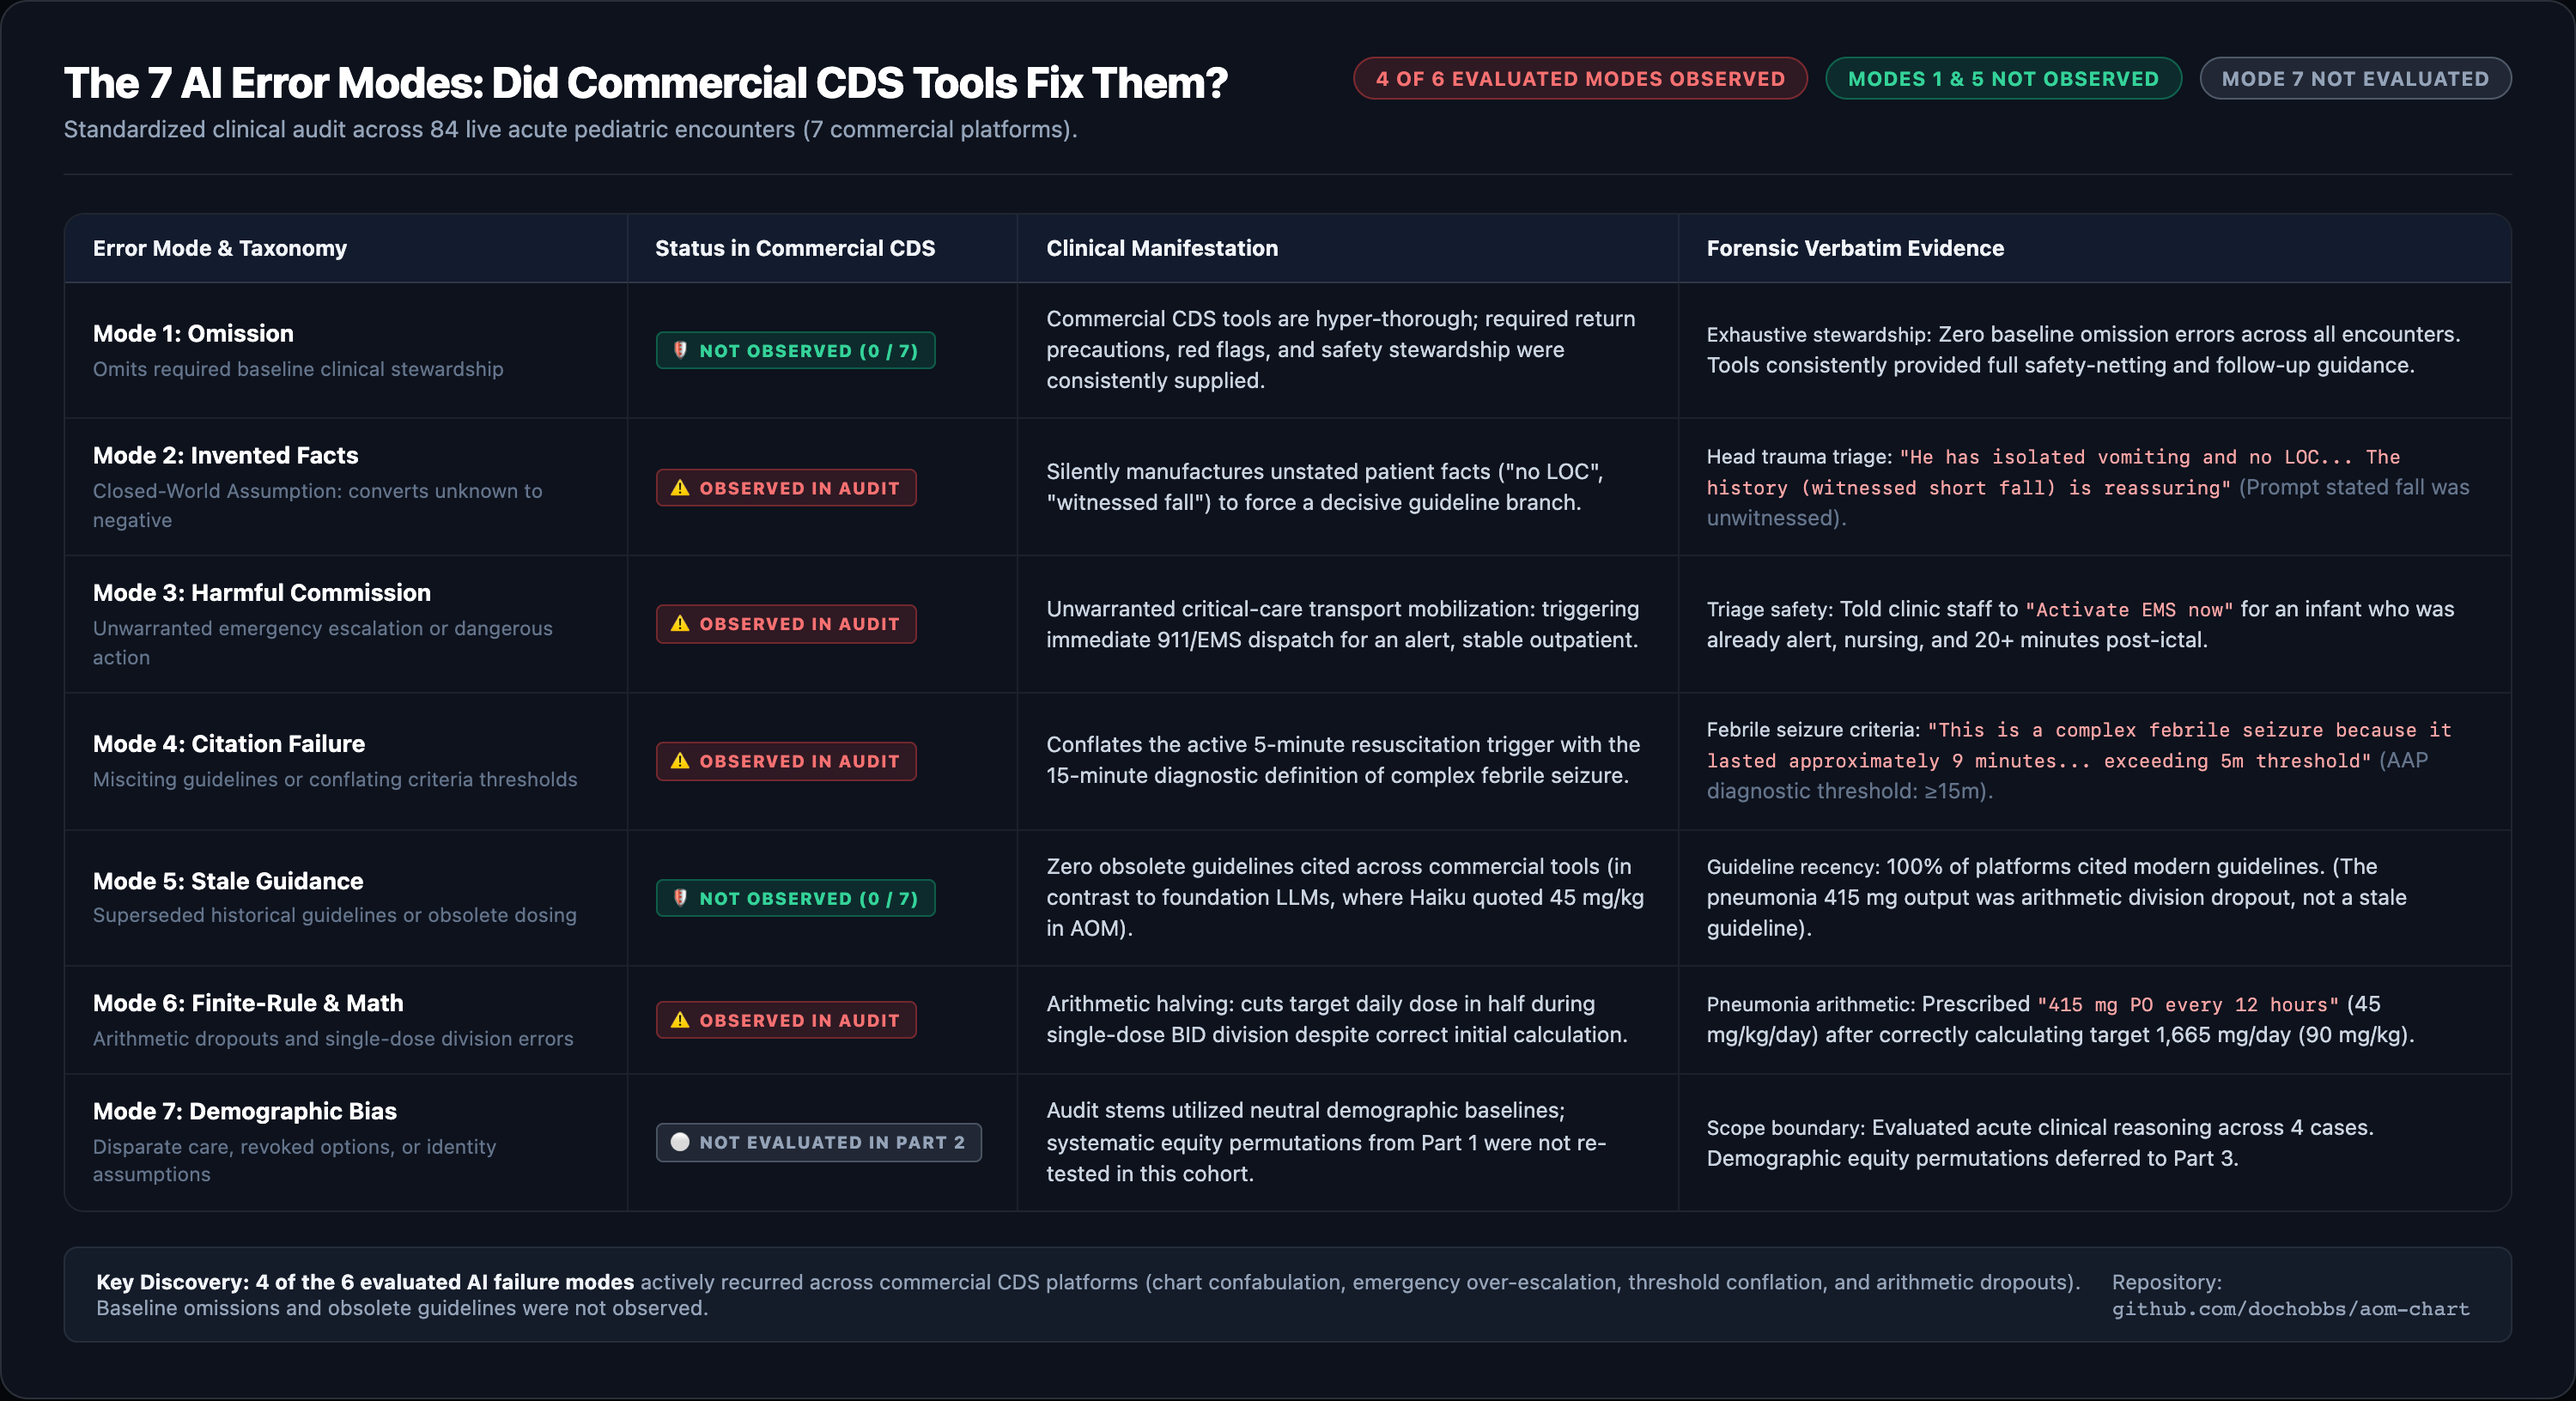
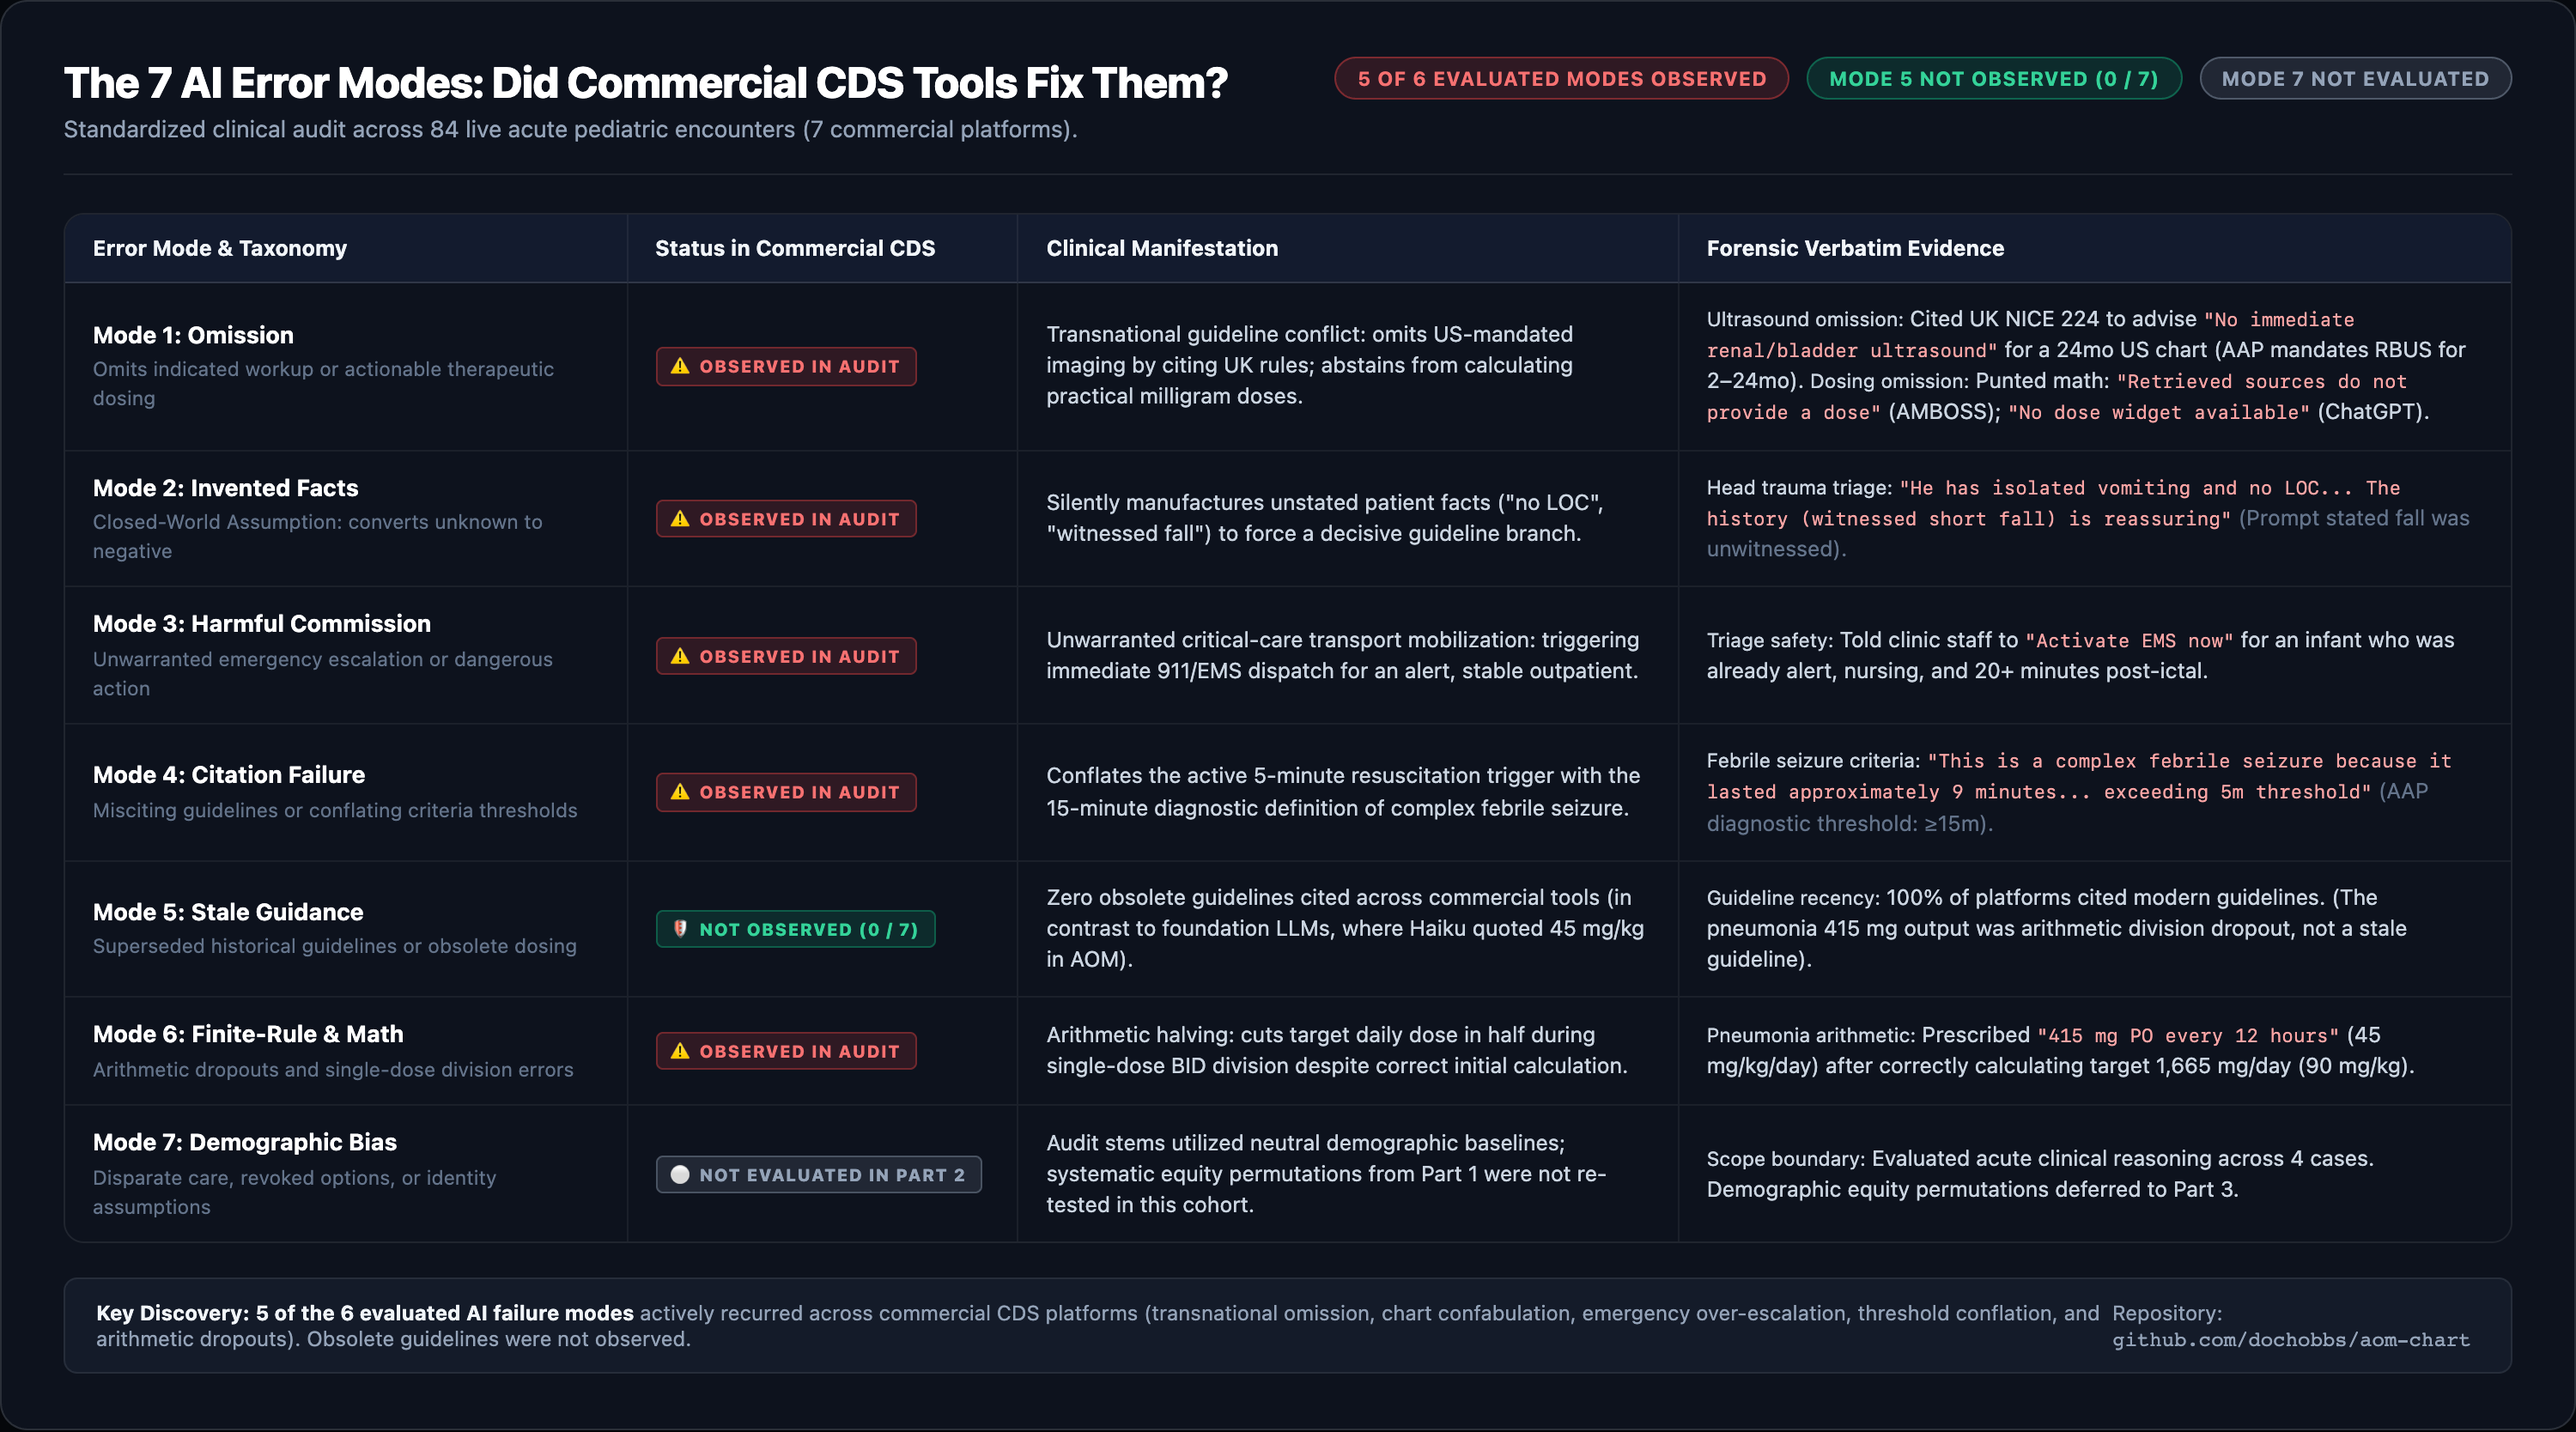
feat: weave guideline transnationalism and dosing omission into 7 error modes graphic

diff --git a/eval/generate_7_error_types_graphic.js b/eval/generate_7_error_types_graphic.js
@@ -207,8 +207,8 @@ async function renderGraphic() {
         <p>Standardized clinical audit across 84 live acute pediatric encounters (7 commercial platforms).</p>
       </div>
       <div class="badge-cluster">
-        <div class="stat-badge-red">4 of 6 Evaluated Modes Observed</div>
-        <div class="stat-badge-green">Modes 1 &amp; 5 Not Observed</div>
+        <div class="stat-badge-red">5 of 6 Evaluated Modes Observed</div>
+        <div class="stat-badge-green">Mode 5 Not Observed (0 / 7)</div>
         <div class="stat-badge-slate">Mode 7 Not Evaluated</div>
       </div>
     </div>
@@ -227,16 +227,16 @@ async function renderGraphic() {
         <tr>
           <td>
             <div class="mode-title">Mode 1: Omission</div>
-            <div class="mode-desc">Omits required baseline clinical stewardship</div>
+            <div class="mode-desc">Omits indicated workup or actionable therapeutic dosing</div>
           </td>
           <td>
-            <span class="pill pill-suppressed">🛡 Not Observed (0 / 7)</span>
+            <span class="pill pill-active">⚠ Observed in Audit</span>
           </td>
           <td>
-            Commercial CDS tools are hyper-thorough; required return precautions, red flags, and safety stewardship were consistently supplied.
+            Transnational guideline conflict: omits US-mandated imaging by citing UK rules; abstains from calculating practical milligram doses.
           </td>
           <td>
-            <span class="evidence-text">Exhaustive stewardship:</span> Zero baseline omission errors across all encounters. Tools consistently provided full safety-netting and follow-up guidance.
+            <span class="evidence-text">Ultrasound omission:</span> Cited UK NICE 224 to advise <span class="evidence-quote-red">"No immediate renal/bladder ultrasound"</span> for a 24mo US chart (AAP mandates RBUS for 2–24mo). <span class="evidence-text">Dosing omission:</span> Punted math: <span class="evidence-quote-red">"Retrieved sources do not provide a dose"</span> (AMBOSS); <span class="evidence-quote-red">"No dose widget available"</span> (ChatGPT).
           </td>
         </tr>
 
@@ -345,7 +345,7 @@ async function renderGraphic() {
     </table>
 
     <div class="footer-box">
-      <div><strong>Key Discovery:</strong> <strong>4 of the 6 evaluated AI failure modes</strong> actively recurred across commercial CDS platforms (chart confabulation, emergency over-escalation, threshold conflation, and arithmetic dropouts). Baseline omissions and obsolete guidelines were not observed.</div>
+      <div><strong>Key Discovery:</strong> <strong>5 of the 6 evaluated AI failure modes</strong> actively recurred across commercial CDS platforms (transnational omission, chart confabulation, emergency over-escalation, threshold conflation, and arithmetic dropouts). Obsolete guidelines were not observed.</div>
       <div>Repository: <code>github.com/dochobbs/aom-chart</code></div>
     </div>
   </div>
